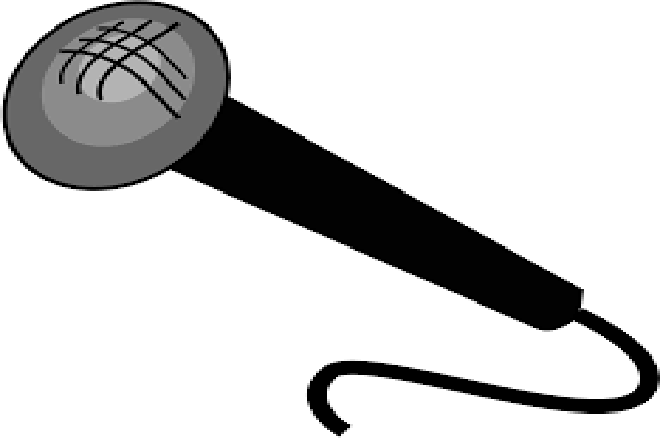
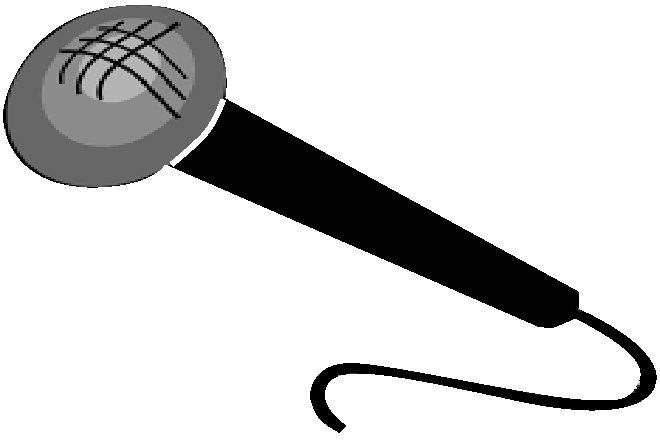
Change images to have transparent backgrounds

diff --git a/index.html b/index.html
@@ -27,7 +27,7 @@
     </header>
     <article class="splash">
       <div>
-        <img src="media/b-ball.jpg" class="splash-image">
+        <img src="media/b-ball.png" class="splash-image">
         <h2> B-Ball and more </h2>
         <p> Join B-Dawg, the worldwide phenomenon, on a cool rap or an epic adventure </p>
       </div>
@@ -37,7 +37,7 @@
         <p> B-Dawg is the ONLY hip edgy conservative Jewish rapper/basketball player </p>
       </div>
       <div>
-        <img src="media/us-flag.jpg" class="splash-image">
+        <img src="media/us-flag.png" class="splash-image">
         <h2> Proudly patriotic </h2>
         <p> B-Dawg is a proud patriot who supports the great nation of America </p>
       </div>
